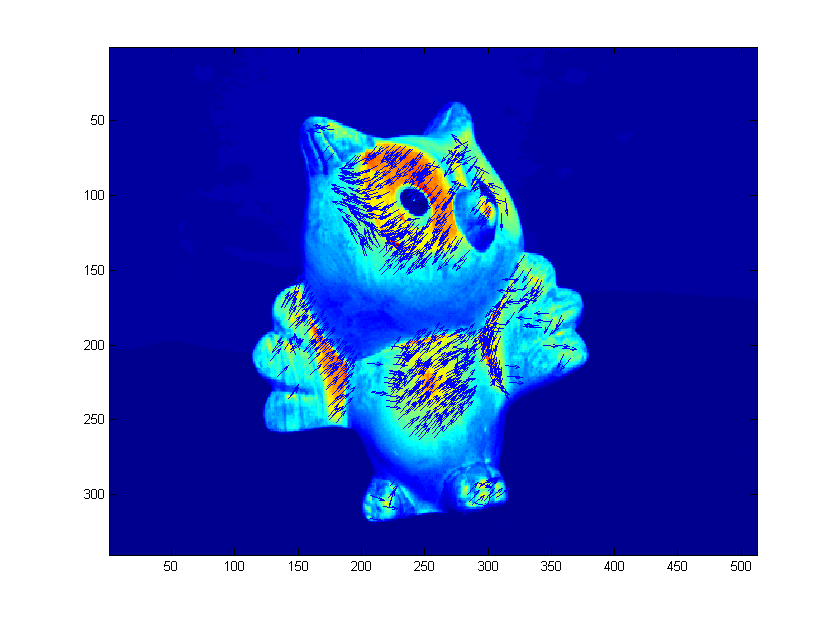
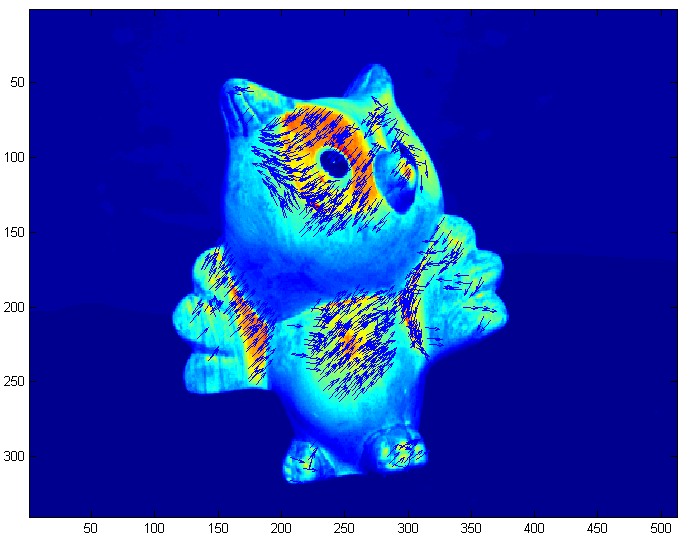
started write up for prob3

diff --git a/Homework3/HW3_solution.tex b/Homework3/HW3_solution.tex
@@ -152,6 +152,34 @@ L =
 
 The code that I used to compute this is attached in prob2script.m
 
+\newpage
+
+\section*{Problem 3}
+
+Here are a few of the needle diagrams with the owl images. 
+
+\begin{figure}[H]
+\centering
+\includegraphics[height=3.5in]{prob3figure1.png}
+\end{figure}
+\begin{figure}[H]
+\centering
+\includegraphics[height=3.5in]{prob3figure2.png}
+\end{figure}
+\begin{figure}[H]
+\centering
+\includegraphics[height=3.5in]{prob3figure3.png}
+\end{figure}
+\begin{figure}[H]
+\centering
+\includegraphics[height=3.5in]{prob3figure4.png}
+\end{figure}
+\begin{figure}[H]
+\centering
+\includegraphics[height=3.5in]{prob3figure5.png}
+\end{figure}
+
+
 \end{document}
 
 

diff --git a/Homework3/prob3script.m b/Homework3/prob3script.m
@@ -78,3 +78,7 @@ colormap jet
 quiver(yPts(xyIndiciesToPlot),xPts(xyIndiciesToPlot),...
     estimatedNormal(normalIndicesToPlot,2),...
     estimatedNormal(normalIndicesToPlot,1))
+
+%%
+
+badInds = find(estimatedRow>256);
